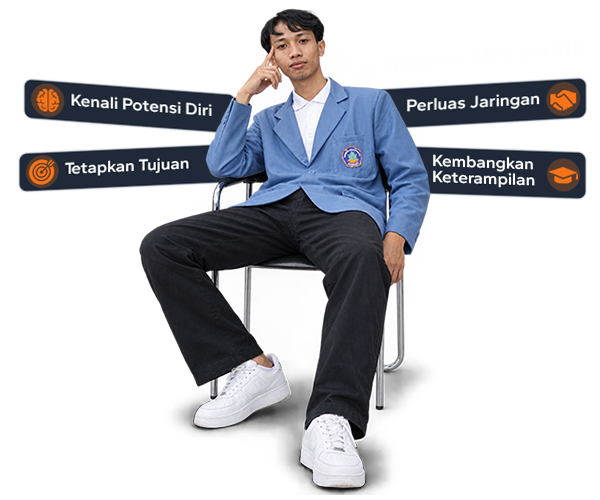
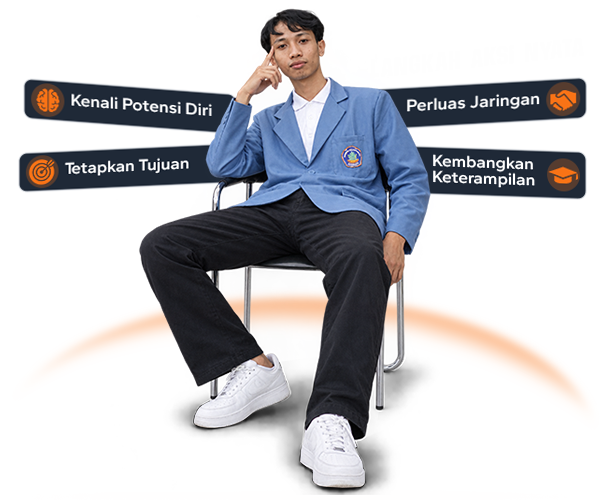
feat: landing page and portfolio Sumesta Creative with Tailwind CSS

Changed region(s): [[0.63, 0.6, 0.96, 0.81], [0.36, 0.57, 0.57, 0.66], [0.12, 0.6, 0.3, 0.72]]

diff --git a/latihan_jquery/LATIHAN TAILWIND DAN JQUERY/projects.html b/latihan_jquery/LATIHAN TAILWIND DAN JQUERY/projects.html
@@ -178,9 +178,9 @@
           </button>
           <button
             class="filter-btn px-4 py-2 rounded-full text-sm font-semibold bg-gray-100 dark:bg-gray-800 text-gray-700 dark:text-gray-300 hover:bg-gray-200 dark:hover:bg-gray-700 transition"
-            data-filter="tailwind"
+            data-filter="javascript"
           >
-            Tailwind CSS
+            JavaScript
           </button>
           <button
             class="filter-btn px-4 py-2 rounded-full text-sm font-semibold bg-gray-100 dark:bg-gray-800 text-gray-700 dark:text-gray-300 hover:bg-gray-200 dark:hover:bg-gray-700 transition"
@@ -190,9 +190,9 @@
           </button>
           <button
             class="filter-btn px-4 py-2 rounded-full text-sm font-semibold bg-gray-100 dark:bg-gray-800 text-gray-700 dark:text-gray-300 hover:bg-gray-200 dark:hover:bg-gray-700 transition"
-            data-filter="automation"
+            data-filter="vercel"
           >
-            Otomasi
+            Vercel
           </button>
         </div>
 
@@ -204,7 +204,7 @@
           <!-- Project 1 -->
           <article
             class="project-card border border-gray-200 dark:border-gray-700 rounded-xl overflow-hidden bg-white dark:bg-gray-800 shadow-sm hover:shadow-md transition"
-            data-tags="tailwind"
+            data-tags="html css javascript"
           >
             <div class="h-48 overflow-hidden">
               <img
@@ -214,15 +214,25 @@
               />
             </div>
             <div class="p-6">
-              <div class="flex gap-2 mb-3">
-                <span class="text-xs bg-orange-100 dark:bg-orange-900/30 text-orange-600 dark:text-orange-400 px-2 py-1 rounded font-medium">Tailwind CSS</span>
-                <span class="text-xs bg-blue-100 dark:bg-blue-900/30 text-blue-600 dark:text-blue-400 px-2 py-1 rounded font-medium">HTML5</span>
+              <div class="flex flex-wrap gap-1.5 mb-3">
+                <span
+                  class="text-xs px-2.5 py-1 rounded bg-blue-50 dark:bg-blue-900/40 text-blue-700 dark:text-blue-300 font-medium"
+                  >HTML</span
+                >
+                <span
+                  class="text-xs px-2.5 py-1 rounded bg-blue-50 dark:bg-blue-900/40 text-blue-700 dark:text-blue-300 font-medium"
+                  >CSS</span
+                >
+                <span
+                  class="text-xs px-2.5 py-1 rounded bg-blue-50 dark:bg-blue-900/40 text-blue-700 dark:text-blue-300 font-medium"
+                  >JavaScript</span
+                >
               </div>
               <h2 class="text-xl font-bold text-gray-900 dark:text-white mb-2">
-                Website Portofolio V1
+                Website Portofolio
               </h2>
               <p class="text-sm text-gray-600 dark:text-gray-400 mb-4">
-                Website profil pribadi responsif dengan sistem navigasi bersih dan mode gelap.
+                Website portofolio pribadi responsif yang dibuat menggunakan template HTML dan CSS murni tanpa framework, yang saya download dari Envato, lalu kembangkan sesuai kebutuhan saya.
               </p>
               <a
                 href="https://sumesta-df6a8.web.app/"
@@ -238,25 +248,39 @@
           <!-- Project 2 -->
           <article
             class="project-card border border-gray-200 dark:border-gray-700 rounded-xl overflow-hidden bg-white dark:bg-gray-800 shadow-sm hover:shadow-md transition"
-            data-tags="firebase tailwind"
+            data-tags="html css javascript firebase"
           >
             <div class="h-48 overflow-hidden">
               <img
                 class="object-cover object-center h-full w-full hover:scale-105 transition duration-300"
                 src="assets/project2.png"
-                alt="Indopride Store"
+                alt="Website Indopride Store"
               />
             </div>
             <div class="p-6">
-              <div class="flex gap-2 mb-3">
-                <span class="text-xs bg-orange-100 dark:bg-orange-900/30 text-orange-600 dark:text-orange-400 px-2 py-1 rounded font-medium">Firebase</span>
-                <span class="text-xs bg-orange-100 dark:bg-orange-900/30 text-orange-600 dark:text-orange-400 px-2 py-1 rounded font-medium">Tailwind CSS</span>
+              <div class="flex flex-wrap gap-1.5 mb-3">
+                <span
+                  class="text-xs px-2.5 py-1 rounded bg-blue-50 dark:bg-blue-900/40 text-blue-700 dark:text-blue-300 font-medium"
+                  >HTML</span
+                >
+                <span
+                  class="text-xs px-2.5 py-1 rounded bg-blue-50 dark:bg-blue-900/40 text-blue-700 dark:text-blue-300 font-medium"
+                  >CSS</span
+                >
+                <span
+                  class="text-xs px-2.5 py-1 rounded bg-blue-50 dark:bg-blue-900/40 text-blue-700 dark:text-blue-300 font-medium"
+                  >JavaScript</span
+                >
+                <span
+                  class="text-xs px-2.5 py-1 rounded bg-blue-50 dark:bg-blue-900/40 text-blue-700 dark:text-blue-300 font-medium"
+                  >Firebase Firestore</span
+                >
               </div>
               <h2 class="text-xl font-bold text-gray-900 dark:text-white mb-2">
-                Indopride Store
+                Website Indopride Store
               </h2>
               <p class="text-sm text-gray-600 dark:text-gray-400 mb-4">
-                Aplikasi katalog produk game dan integrasi penyimpanan data Cloud Firestore.
+                Website toko online Indopride Store yang dibuat menggunakan teknologi Next.js dengan banyak framework, yang saya buat dengan bantuan AI, dan saya sesuaikan dengan kebutuhan saya.
               </p>
               <a
                 href="https://indopride.top"
@@ -272,25 +296,43 @@
           <!-- Project 3 -->
           <article
             class="project-card border border-gray-200 dark:border-gray-700 rounded-xl overflow-hidden bg-white dark:bg-gray-800 shadow-sm hover:shadow-md transition"
-            data-tags="firebase automation"
+            data-tags="html css javascript vercel firebase"
           >
             <div class="h-48 overflow-hidden">
               <img
                 class="object-cover object-center h-full w-full hover:scale-105 transition duration-300"
                 src="assets/project3.png"
-                alt="Jobdex"
+                alt="Website jobdex-in.vercel.app"
               />
             </div>
             <div class="p-6">
-              <div class="flex gap-2 mb-3">
-                <span class="text-xs bg-orange-100 dark:bg-orange-900/30 text-orange-600 dark:text-orange-400 px-2 py-1 rounded font-medium">Firebase</span>
-                <span class="text-xs bg-blue-100 dark:bg-blue-900/30 text-blue-600 dark:text-blue-400 px-2 py-1 rounded font-medium">Otomasi</span>
+              <div class="flex flex-wrap gap-1.5 mb-3">
+                <span
+                  class="text-xs px-2.5 py-1 rounded bg-blue-50 dark:bg-blue-900/40 text-blue-700 dark:text-blue-300 font-medium"
+                  >HTML</span
+                >
+                <span
+                  class="text-xs px-2.5 py-1 rounded bg-blue-50 dark:bg-blue-900/40 text-blue-700 dark:text-blue-300 font-medium"
+                  >CSS</span
+                >
+                <span
+                  class="text-xs px-2.5 py-1 rounded bg-blue-50 dark:bg-blue-900/40 text-blue-700 dark:text-blue-300 font-medium"
+                  >JavaScript</span
+                >
+                <span
+                  class="text-xs px-2.5 py-1 rounded bg-blue-50 dark:bg-blue-900/40 text-blue-700 dark:text-blue-300 font-medium"
+                  >Vercel</span
+                >
+                <span
+                  class="text-xs px-2.5 py-1 rounded bg-blue-50 dark:bg-blue-900/40 text-blue-700 dark:text-blue-300 font-medium"
+                  >Firebase Firestore</span
+                >
               </div>
               <h2 class="text-xl font-bold text-gray-900 dark:text-white mb-2">
-                Jobdex Web Scheduler
+                Website jobdex-in.vercel.app
               </h2>
               <p class="text-sm text-gray-600 dark:text-gray-400 mb-4">
-                Pengatur antrean tugas berbasis web dengan koneksi webhook pesan instan.
+                Website pengatur jadwal berbasis web dan connect dengan wa grup, yang dibuat menggunakan teknologi Next.js dengan banyak framework, yang saya buat dengan bantuan AI, dan saya sesuaikan dengan kebutuhan saya.
               </p>
               <a
                 href="https://jobdex-in.vercel.app/"

diff --git a/latihan_jquery/LATIHAN TAILWIND DAN JQUERY/index.html b/latihan_jquery/LATIHAN TAILWIND DAN JQUERY/index.html
@@ -414,18 +414,27 @@
               alt="Website Portofolio"
             />
             <div class="p-6">
-              <span
-                class="text-xs font-bold text-orange-500 uppercase tracking-widest"
-                >Web Statis</span
-              >
+              <div class="flex flex-wrap gap-1.5 mb-3">
+                <span
+                  class="text-xs px-2.5 py-1 rounded bg-blue-50 dark:bg-blue-900/40 text-blue-700 dark:text-blue-300 font-medium"
+                  >HTML</span
+                >
+                <span
+                  class="text-xs px-2.5 py-1 rounded bg-blue-50 dark:bg-blue-900/40 text-blue-700 dark:text-blue-300 font-medium"
+                  >CSS</span
+                >
+                <span
+                  class="text-xs px-2.5 py-1 rounded bg-blue-50 dark:bg-blue-900/40 text-blue-700 dark:text-blue-300 font-medium"
+                  >JavaScript</span
+                >
+              </div>
               <h3
                 class="text-xl font-bold text-gray-900 dark:text-white mt-1 mb-2"
               >
                 Website Portofolio
               </h3>
               <p class="text-sm text-gray-600 dark:text-gray-400 mb-4">
-                Website personal responsif dengan animasi transisi dan CI/CD
-                Firebase Hosting.
+                Website portofolio pribadi responsif yang dibuat menggunakan template HTML dan CSS murni tanpa framework, yang saya download dari Envato, lalu kembangkan sesuai kebutuhan saya.
               </p>
               <a
                 href="https://sumesta-df6a8.web.app/"
@@ -443,21 +452,34 @@
             <img
               class="h-48 w-full object-cover"
               src="assets/project2.png"
-              alt="Indopride Store"
+              alt="Website Indopride Store"
             />
             <div class="p-6">
-              <span
-                class="text-xs font-bold text-orange-500 uppercase tracking-widest"
-                >Web App</span
-              >
+              <div class="flex flex-wrap gap-1.5 mb-3">
+                <span
+                  class="text-xs px-2.5 py-1 rounded bg-blue-50 dark:bg-blue-900/40 text-blue-700 dark:text-blue-300 font-medium"
+                  >HTML</span
+                >
+                <span
+                  class="text-xs px-2.5 py-1 rounded bg-blue-50 dark:bg-blue-900/40 text-blue-700 dark:text-blue-300 font-medium"
+                  >CSS</span
+                >
+                <span
+                  class="text-xs px-2.5 py-1 rounded bg-blue-50 dark:bg-blue-900/40 text-blue-700 dark:text-blue-300 font-medium"
+                  >JavaScript</span
+                >
+                <span
+                  class="text-xs px-2.5 py-1 rounded bg-blue-50 dark:bg-blue-900/40 text-blue-700 dark:text-blue-300 font-medium"
+                  >Firebase Firestore</span
+                >
+              </div>
               <h3
                 class="text-xl font-bold text-gray-900 dark:text-white mt-1 mb-2"
               >
-                Indopride Store
+                Website Indopride Store
               </h3>
               <p class="text-sm text-gray-600 dark:text-gray-400 mb-4">
-                Etalase toko daring terintegrasi database Cloud Firestore dan
-                sistem transaksi.
+                Website toko online Indopride Store yang dibuat menggunakan teknologi Next.js dengan banyak framework, yang saya buat dengan bantuan AI, dan saya sesuaikan dengan kebutuhan saya.
               </p>
               <a
                 href="https://indopride.top"
@@ -475,21 +497,38 @@
             <img
               class="h-48 w-full object-cover"
               src="assets/project3.png"
-              alt="Jobdex"
+              alt="Website jobdex-in.vercel.app"
             />
             <div class="p-6">
-              <span
-                class="text-xs font-bold text-orange-500 uppercase tracking-widest"
-                >Automation / Tool</span
-              >
+              <div class="flex flex-wrap gap-1.5 mb-3">
+                <span
+                  class="text-xs px-2.5 py-1 rounded bg-blue-50 dark:bg-blue-900/40 text-blue-700 dark:text-blue-300 font-medium"
+                  >HTML</span
+                >
+                <span
+                  class="text-xs px-2.5 py-1 rounded bg-blue-50 dark:bg-blue-900/40 text-blue-700 dark:text-blue-300 font-medium"
+                  >CSS</span
+                >
+                <span
+                  class="text-xs px-2.5 py-1 rounded bg-blue-50 dark:bg-blue-900/40 text-blue-700 dark:text-blue-300 font-medium"
+                  >JavaScript</span
+                >
+                <span
+                  class="text-xs px-2.5 py-1 rounded bg-blue-50 dark:bg-blue-900/40 text-blue-700 dark:text-blue-300 font-medium"
+                  >Vercel</span
+                >
+                <span
+                  class="text-xs px-2.5 py-1 rounded bg-blue-50 dark:bg-blue-900/40 text-blue-700 dark:text-blue-300 font-medium"
+                  >Firebase Firestore</span
+                >
+              </div>
               <h3
                 class="text-xl font-bold text-gray-900 dark:text-white mt-1 mb-2"
               >
-                Jobdex Scheduler
+                Website jobdex-in.vercel.app
               </h3>
               <p class="text-sm text-gray-600 dark:text-gray-400 mb-4">
-                Pengatur jadwal tugas otomatis yang terhubung ke notifikasi grup
-                pesan instan.
+                Website pengatur jadwal berbasis web dan connect dengan wa grup, yang dibuat menggunakan teknologi Next.js dengan banyak framework, yang saya buat dengan bantuan AI, dan saya sesuaikan dengan kebutuhan saya.
               </p>
               <a
                 href="https://jobdex-in.vercel.app/"
